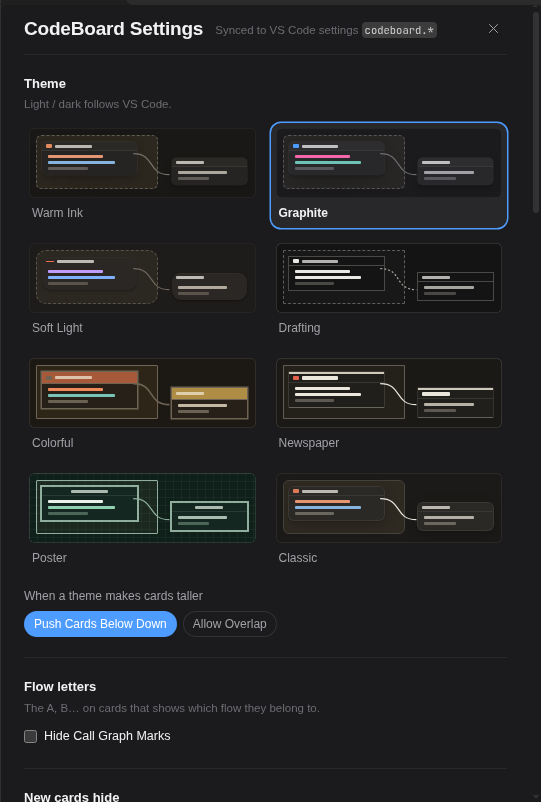
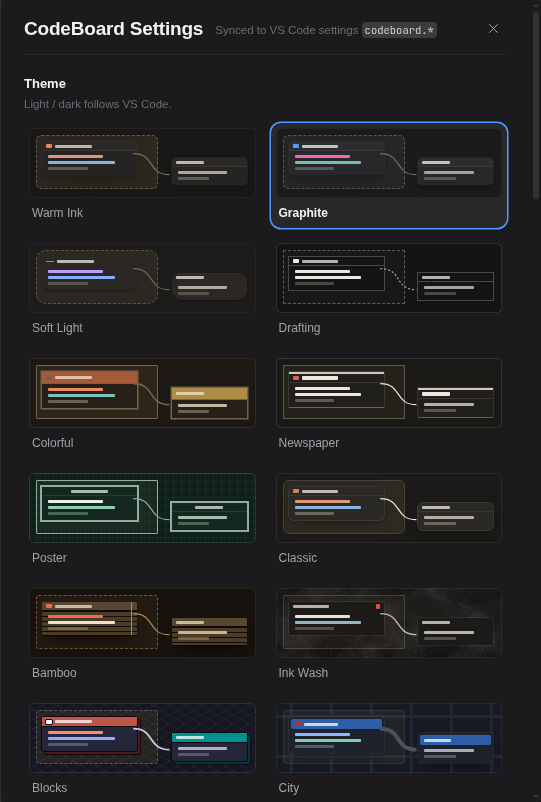
screenshots: branches/dev/v0.1.7-ahqjvh @ ebc19c9

diff --git a/branches/dev/v0.1.7-ahqjvh/diff/summary.md b/branches/dev/v0.1.7-ahqjvh/diff/summary.md
@@ -1,1 +1,9 @@
-**Screenshot diff**: 9 steps, 0 changed, identical to baseline.
+**Screenshot diff**: 9 steps, 2 changed.
+
+**5-search** · changed · 1.3% of pixels
+
+![5-search.png](https://github.com/yhnocoder/codeboard/blob/ci-screenshots/branches/dev/v0.1.7-ahqjvh/diff/5-search.png?raw=true)
+
+**7a-settings** · changed · 3.9% of pixels
+
+![7a-settings.png](https://github.com/yhnocoder/codeboard/blob/ci-screenshots/branches/dev/v0.1.7-ahqjvh/diff/7a-settings.png?raw=true)
